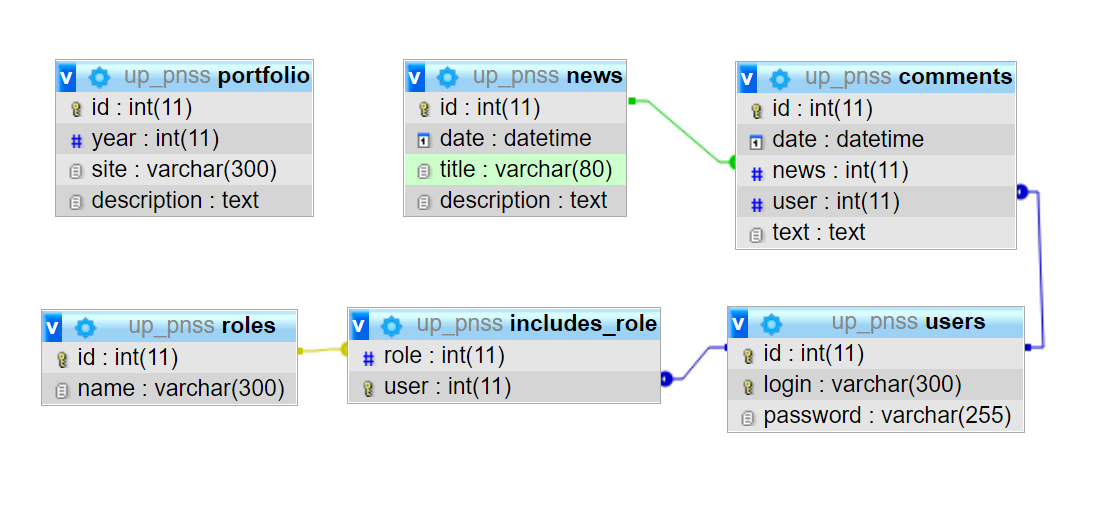
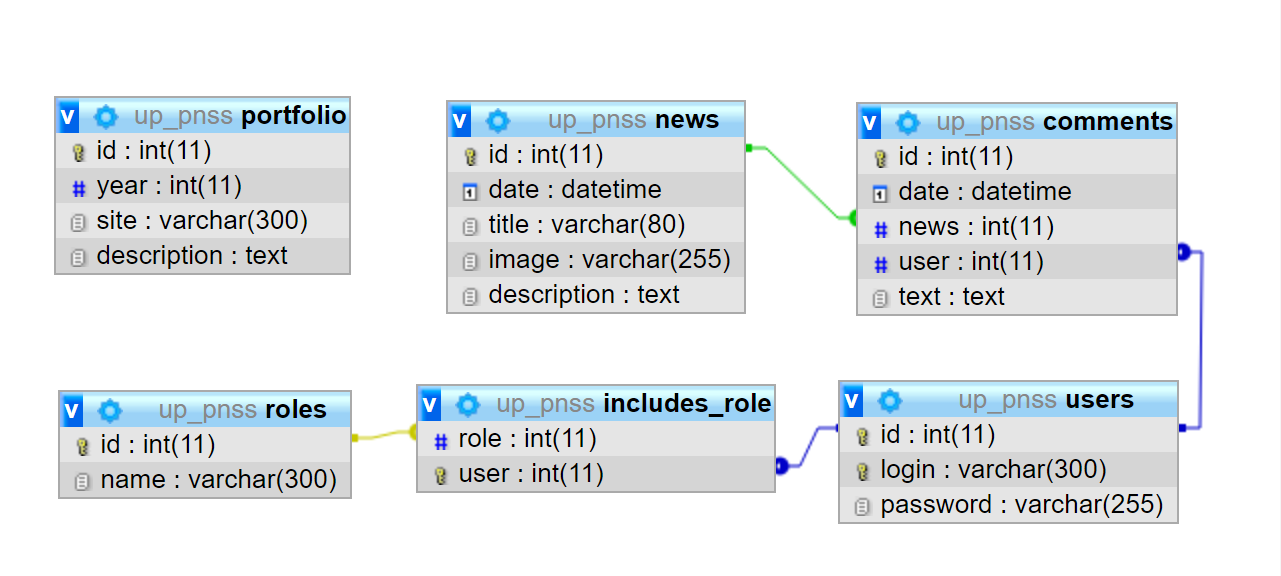
Добавлены картинки в новости.

diff --git a/application/controllers/controller_news.php b/application/controllers/controller_news.php
@@ -29,7 +29,11 @@ class Controller_News extends Controller
 		global $messages;
 		if (isset($_POST["addNews"]))
 		{
-			$res = $this->model->add($_POST);
+			$data = $_POST;
+			$data = array_merge($data, [
+				"image" => $this->saveImage("image"),
+			]);
+			$res = $this->model->add($data);
 			if($res === true)
 			{
 				header('Location: /news');
@@ -51,13 +55,20 @@ class Controller_News extends Controller
 		global $messages;
 		if (isset($_POST["editNews"]))
 		{
-			$res = $this->model->edit($_POST, $index);
+			$data = $_POST;
+			$data = array_merge($data, [
+				"image" => $this->saveImage("image"),
+			]);
+			$res = $this->model->edit($data, $index);
 			if($res === true)
 			{
-				header('Location: /news');
+				header("Location: /news/comment/$index");
 				return;
 			}
-			array_push($messages, $res);
+			else
+			{
+				array_push($messages, $res);
+			}
 		}
 
 		if (isset($_POST["deleteNews"]))
@@ -126,5 +137,21 @@ class Controller_News extends Controller
 			"comment" => $this->modelComments->getData($news["id"]),
 		];
 		$this->view->generate('view_news_one.php', $data);
+	}
+
+	private function saveImage($name)
+	{
+		$img = $_FILES[$name];
+		//var_dump($img["name"]);
+		if(!$img["name"])
+		{
+			//var_dump("Не сохранено.");
+			return false;
+		}
+		$dir = "files/image/";
+		$newName = $dir . time() . $img["name"];
+		move_uploaded_file($img["tmp_name"], $newName);
+		//var_dump("Cохранено.");
+		return "/" . $newName;
 	}
 }

diff --git a/application/models/model_news.php b/application/models/model_news.php
@@ -37,9 +37,14 @@ class  Model_News extends Model
 		}
 		extract($valid);
 
+		if(!$image)
+		{
+			return "нет картинки";
+		}
+
 		$res = $this->mysqli->query(
-			"INSERT INTO news (title, description) VALUES
-			('$title', '$description');
+			"INSERT INTO news (title, description, image) VALUES
+			('$title', '$description', '$image');
 		");
 
 		if (!$res)
@@ -62,10 +67,17 @@ class  Model_News extends Model
 
 		$index = (int)$index;
 
+		$changeImg = "";
+		if($image)
+		{
+			$changeImg = ",image = '$image'";
+		}
+
 		$res = $this->mysqli->query(
 			"UPDATE news SET
 				title = '$title',
 				description = '$description'
+				$changeImg
 			WHERE id = $index;
 		");
 
@@ -116,6 +128,7 @@ class  Model_News extends Model
 		return [
 			"title" => $this->mysqli->real_escape_string($data["title"]),
 			"description" => $this->mysqli->real_escape_string($data["description"]),
+			"image" => $data["image"],
 		];
 	}
 }

diff --git a/application/views/view_news_add.php b/application/views/view_news_add.php
@@ -1,5 +1,5 @@
 <h1>Добавнелие новой новости</h1>
-<form method="post">
+<form enctype="multipart/form-data" method="post">
 	<table>
 		<tr>
 			<td>
@@ -16,6 +16,14 @@
 			<td>
 				<textarea name="description" id="description" required
 				rows="8" cols="80"></textarea>
+			</td>
+		</tr>
+		<tr>
+			<td>
+				<label for="image">Картинка</label>
+			</td>
+			<td>
+				<input type="file" name="image" id="image" required accept="image/*">
 			</td>
 		</tr>
 		<tr>

diff --git a/application/views/view_news_edit.php b/application/views/view_news_edit.php
@@ -1,5 +1,5 @@
 <h1><?=$data["title"]?></h1>
-<form method="post">
+<form enctype="multipart/form-data" method="post">
 	<table>
 		<tr>
 			<td></td>
@@ -23,6 +23,14 @@
 			<td>
 				<textarea name="description" id="description" required
 				rows="8" cols="80"><?=$data["description"]?></textarea>
+			</td>
+		</tr>
+		<tr>
+			<td>
+				<label for="image">Картинка</label>
+			</td>
+			<td>
+				<input type="file" name="image" id="image" accept="image/*">
 			</td>
 		</tr>
 		<tr>

diff --git a/application/views/view_news_one.php b/application/views/view_news_one.php
@@ -1,5 +1,21 @@
+<?php
+$flagCanEdit = false;
+if(isset($_SESSION["user"]) && in_array($_SESSION["user"]["role"], [
+		"superuser",
+		"admin",
+	]))
+{
+	$flagCanEdit = true;
+}
+?>
+
 <h1><?=$data["news"]["title"]?></h1>
+<img src="<?=$data["news"]["image"]?>" alt="картинка">
 <p><?=$data["news"]["description"]?></p>
+
+<?php if($flagCanEdit) { ?>
+	<a href="/news/edit/<?=$data["news"]["id"]?>">Изменить</a>
+<?php } ?>
 
 <h3>Комментарии</h3>
 

diff --git a/application/views/view_news.php b/application/views/view_news.php
@@ -9,12 +9,16 @@ if(isset($_SESSION["user"]) && in_array($_SESSION["user"]["role"], [
 }
 ?>
 <h1>Новости</h1>
+<?php if($flagCanEdit) { ?>
+	<a href="/news/add/">Добавить</a>
+<?php } ?>
 <div class="line">
 	<?php foreach($data as $row) { ?>
 		<article>
 			<h2>
 				<?=$row["title"]?>
 			</h2>
+			<img src="<?=$row["image"]?>" alt="картинка">
 			<div>
 				<?=$row["description"]?>
 			</div>
